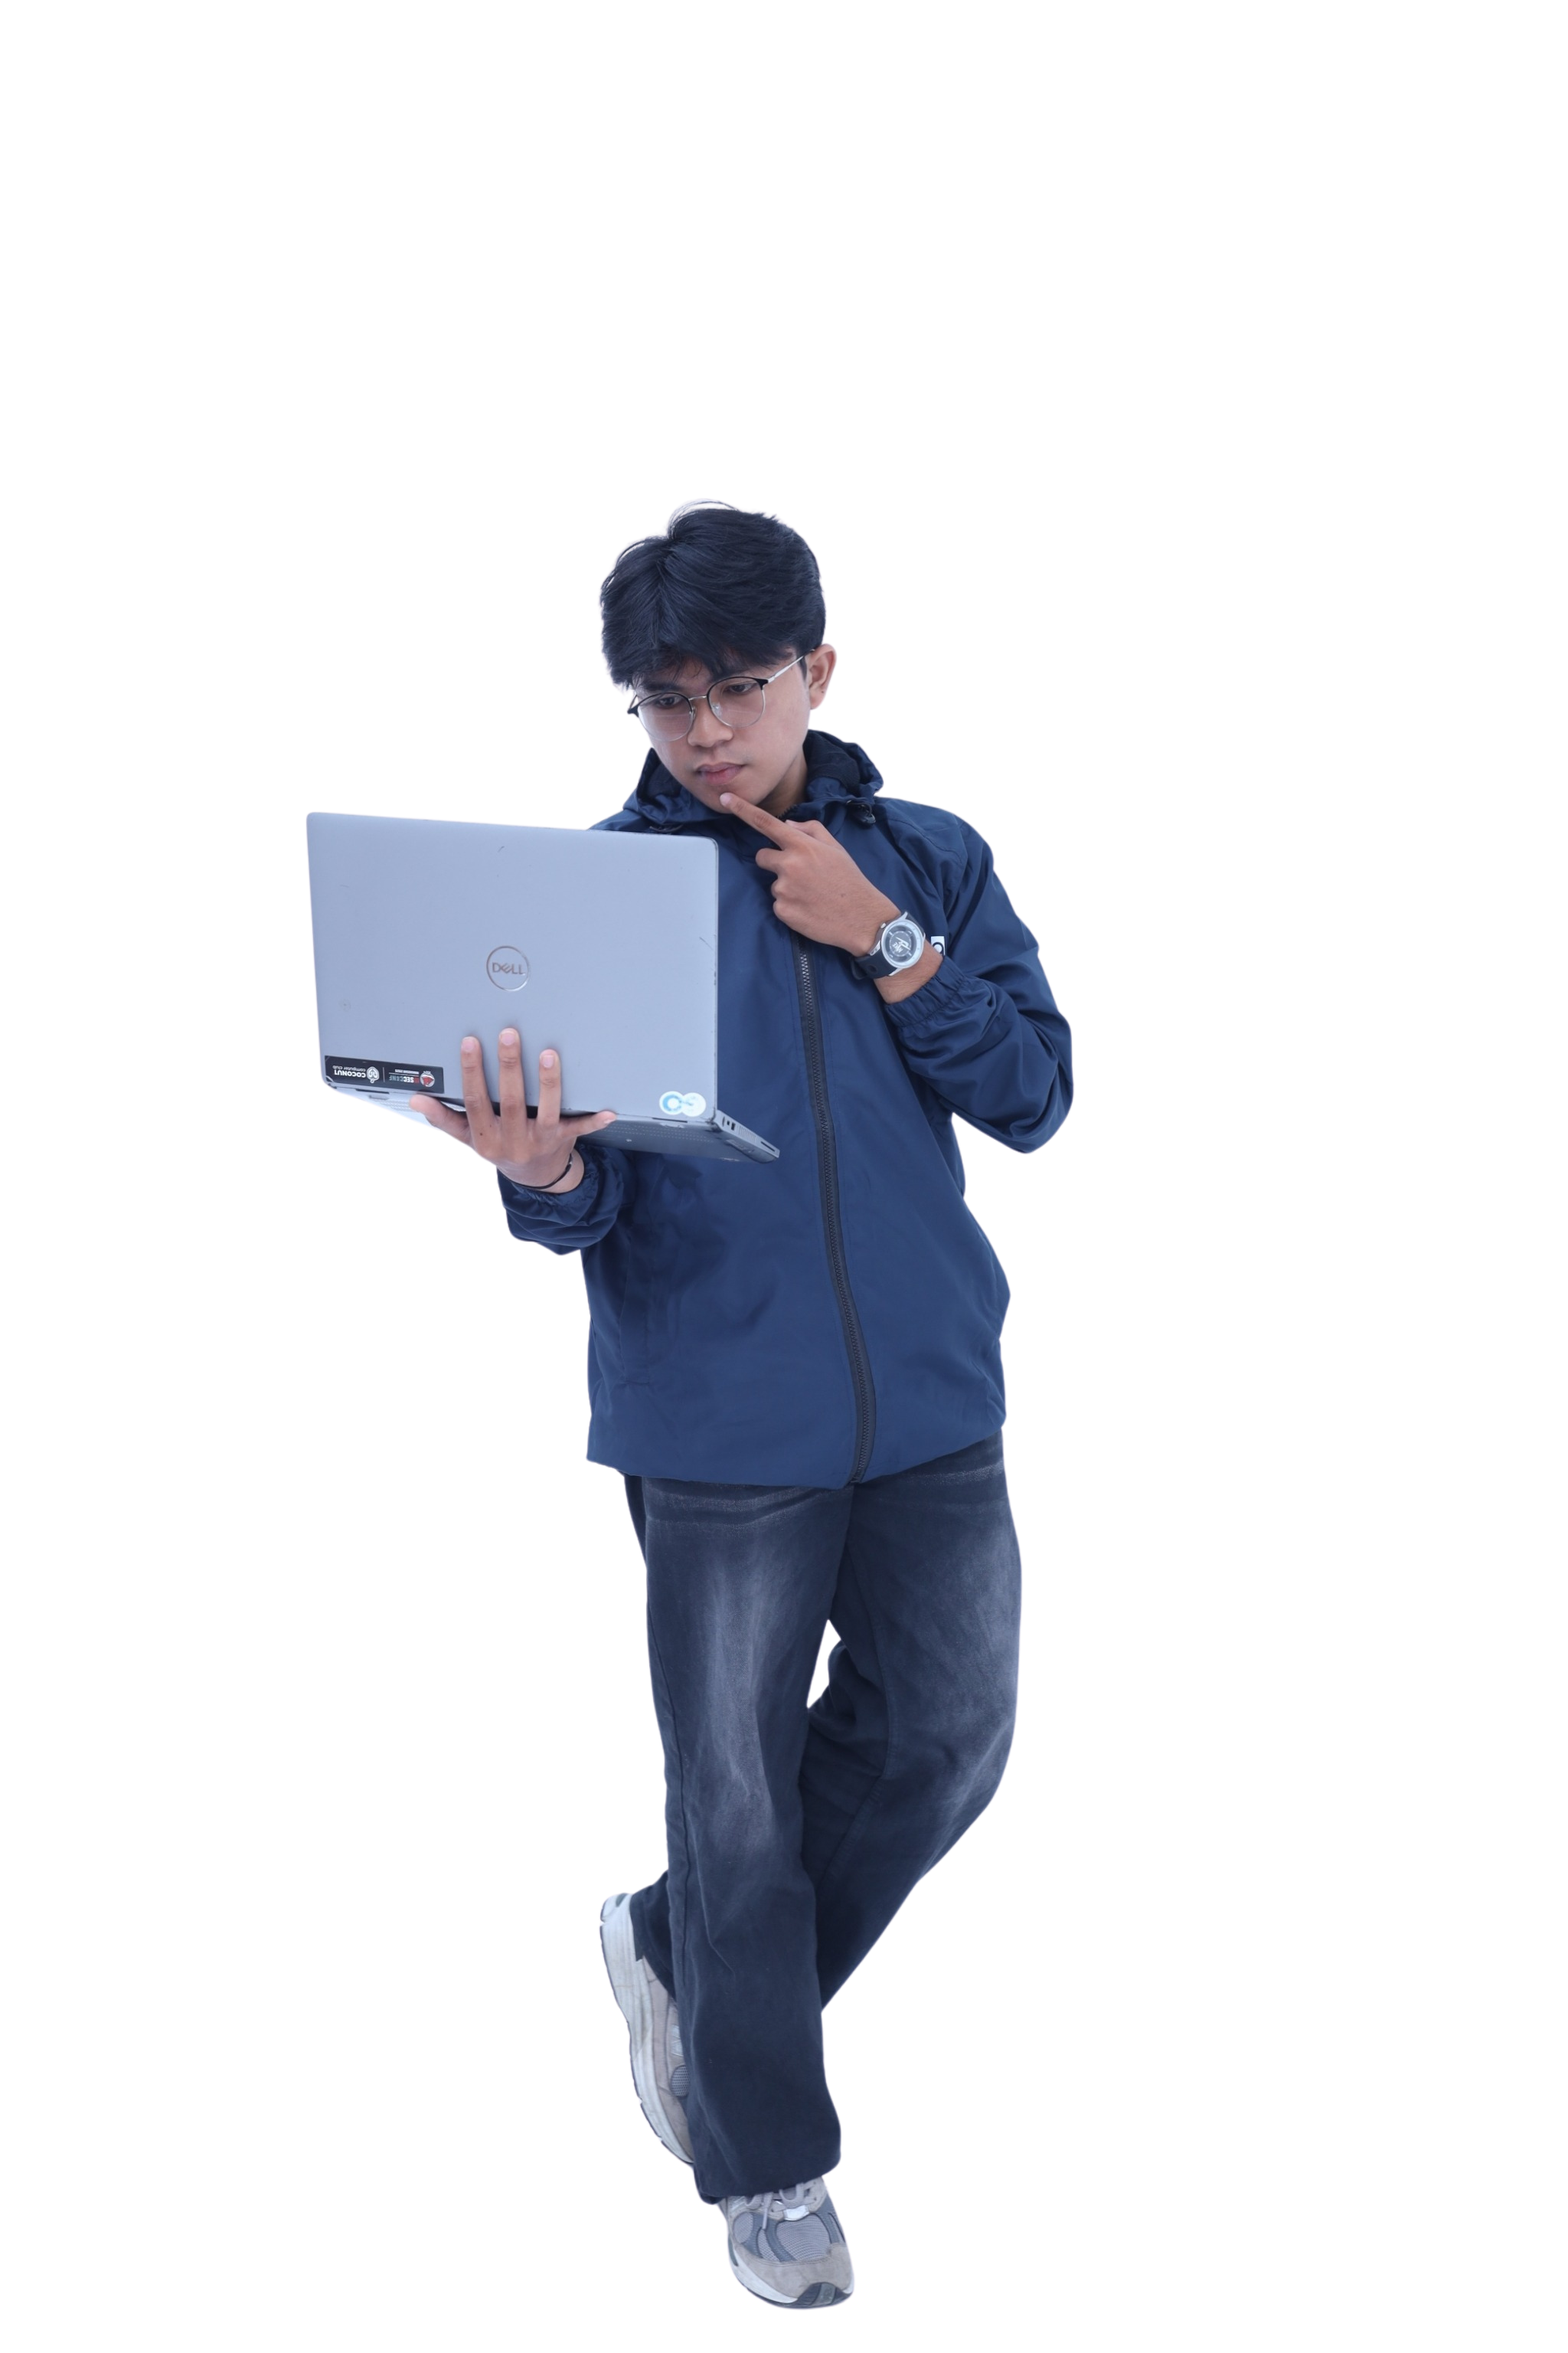
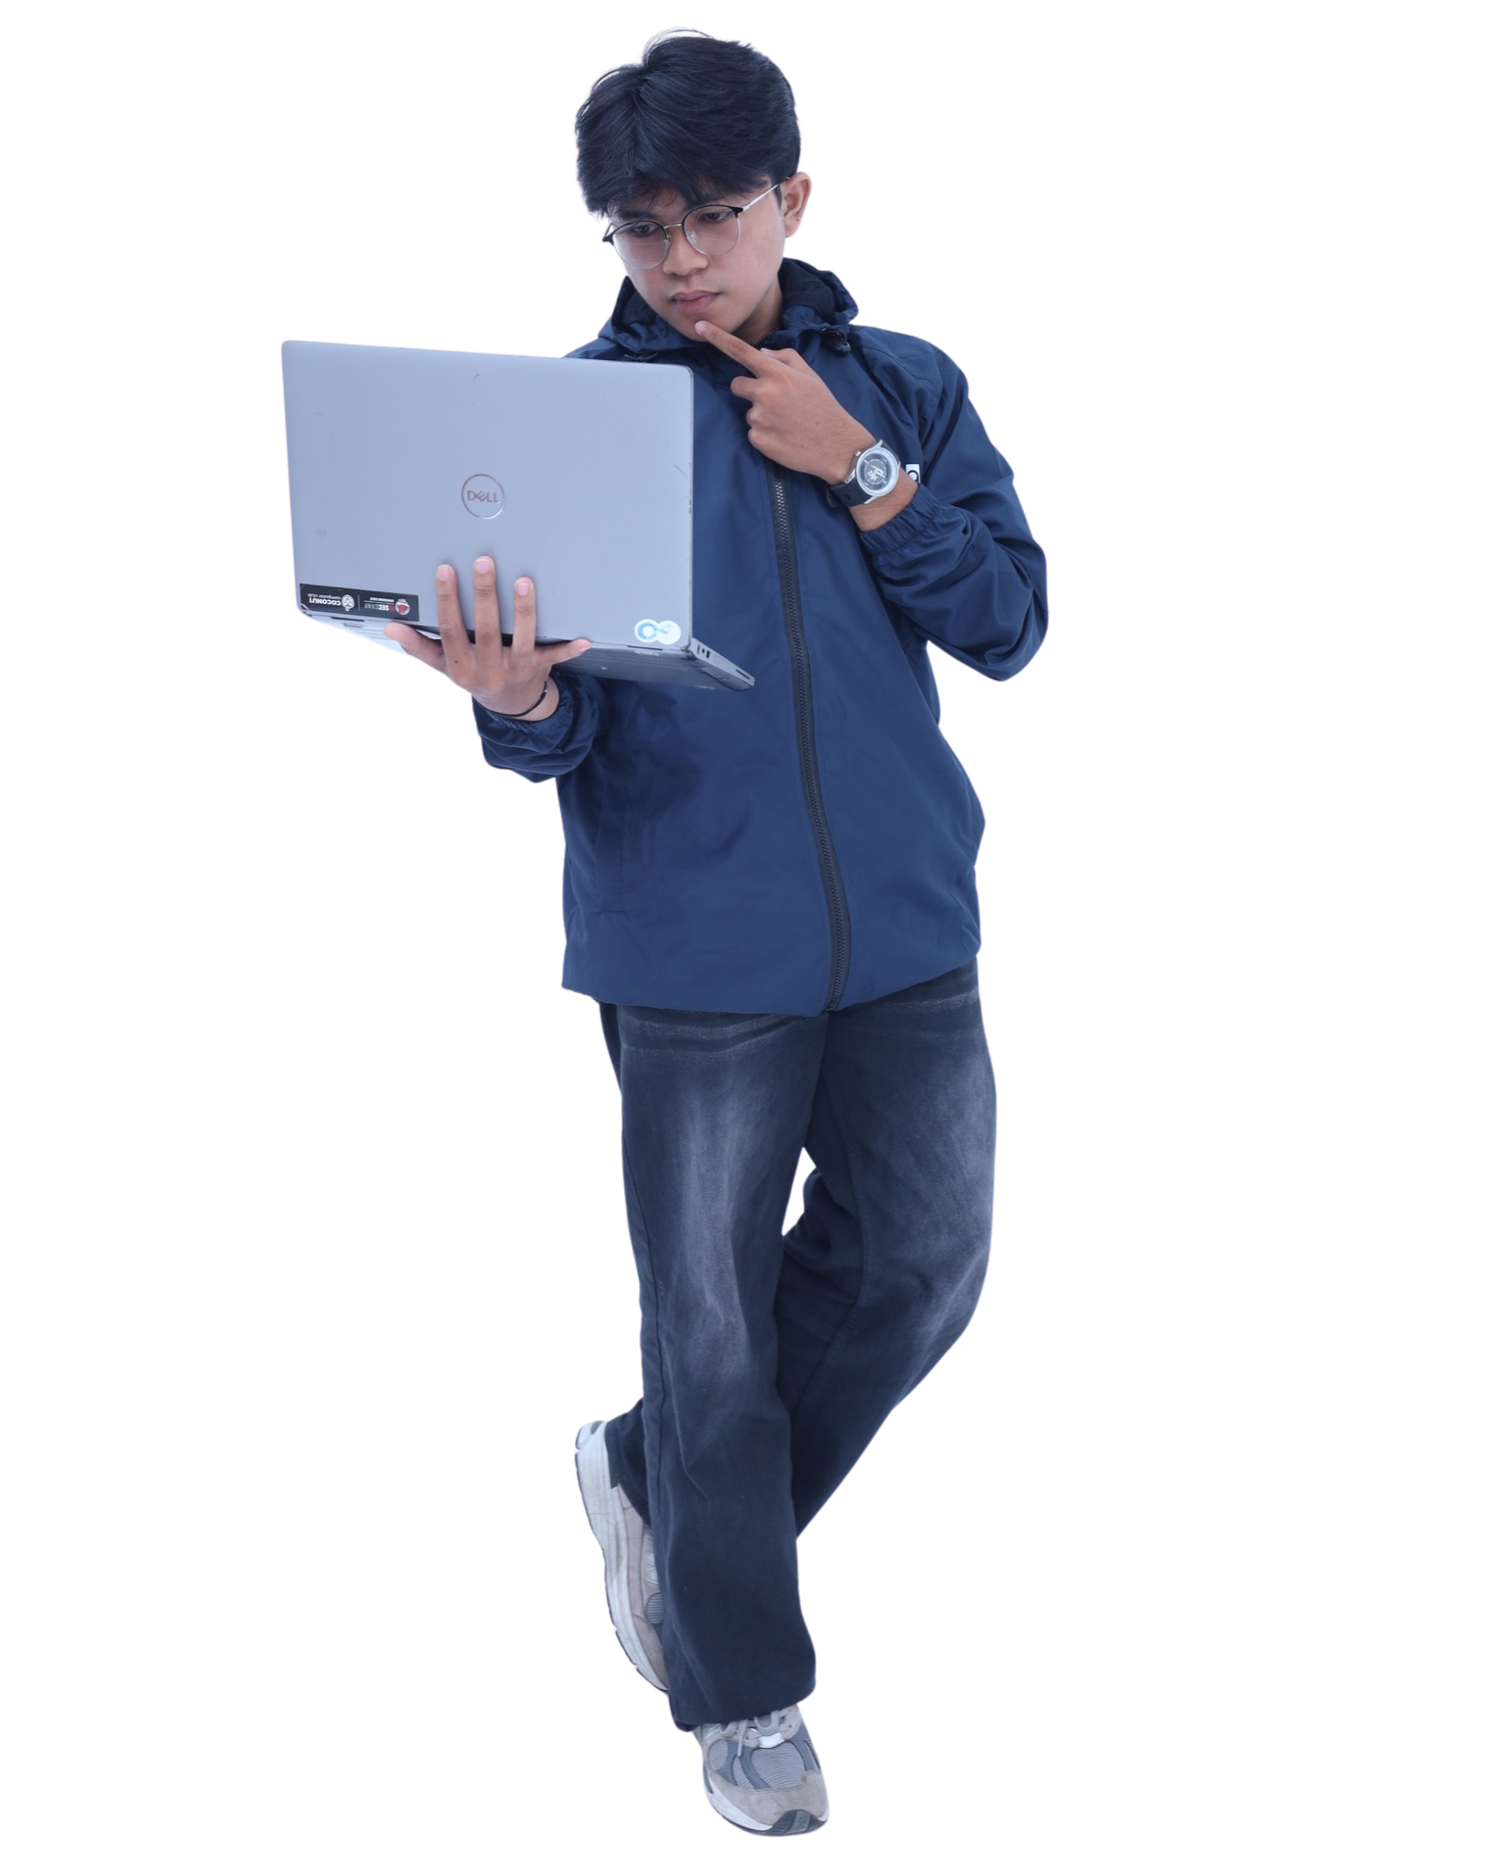
feat: gambar penyesuaian bg

Changed region(s): [[0.1851, 0.0, 0.7095, 1.0]]

diff --git a/src/pages/Home.tsx b/src/pages/Home.tsx
@@ -138,8 +138,8 @@ export default function Home() {
                 <div className={`absolute inset-0 bg-gradient-to-r from-blue-500 via-purple-500 to-pink-500 rounded-3xl blur-3xl opacity-40 group-hover:opacity-60 transition-opacity animate-pulse`} />
                 <div className="relative flex justify-center max-w-sm lg:max-w-md xl:max-w-lg">
                   <img 
-                    src="/images/profile/day.png" 
-                    // src="/images/profile/dayat.png" 
+                    src="/images/profile/pp.png" 
+                    // src="/images/profile/dayat1.jpg" 
                     alt="Daya Sakti Profile" 
                     className="relative w-full h-auto object-contain drop-shadow-2xl group-hover:scale-105 transition-transform duration-500"
                     style={{ aspectRatio: '2048/3070' }}
